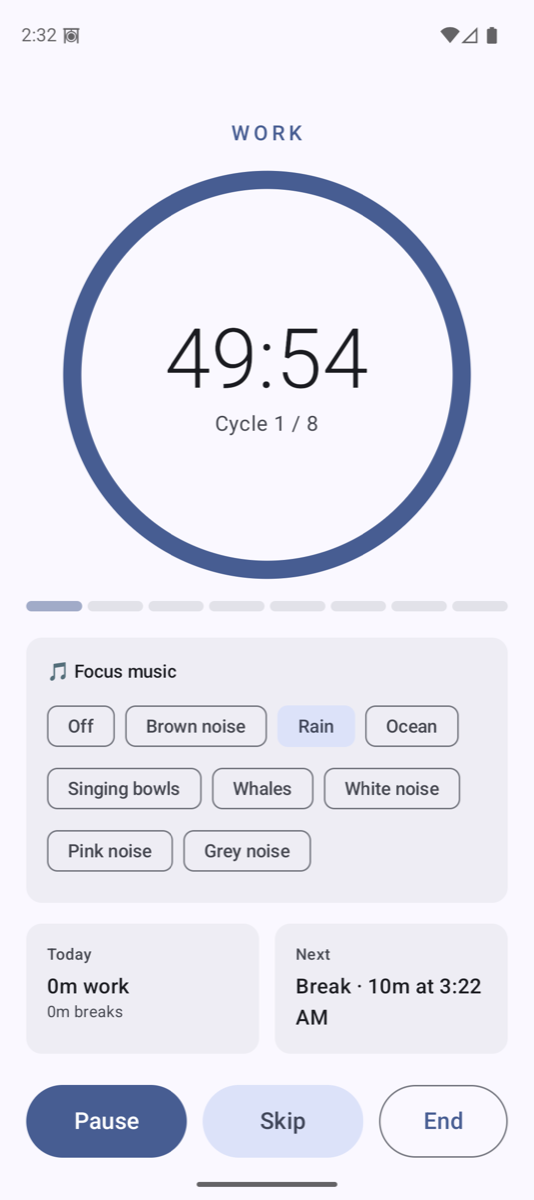
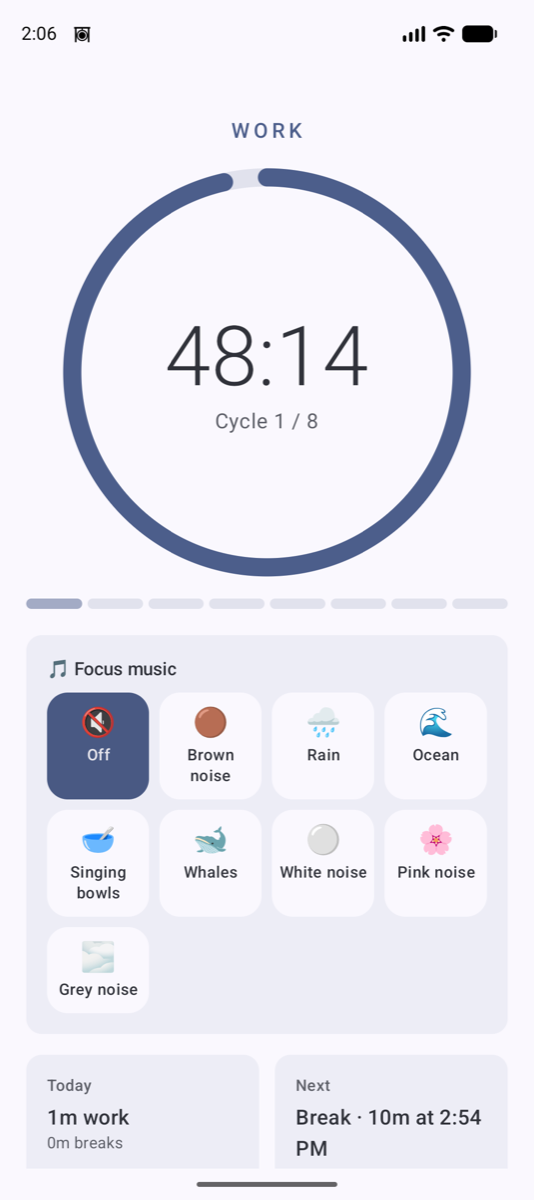
docs: README screenshots for lock-screen page, Live Update, custom input, focus tiles; measured battery note

diff --git a/README.md b/README.md
@@ -22,7 +22,9 @@ morning, put the phone away, and it runs **8 × (50 min work + 10 min break)** o
   - Breathing animation, walk
 - **Focus music** is picked on the work screen (brown noise, rain, ocean, singing bowls) and
   keeps playing with the screen off
-- **Actionable notification** with countdown, Pause and Skip — no need to open the app
+- **Actionable notification** with countdown, Pause and Skip — no need to open the app; on Android 16
+  QPR+ it's a **Live Update** (status-bar chip with the countdown, pinned on the lock screen)
+- **Lock-screen page** at every phase change: black-and-white, display only, closes itself after ~12 s
 - **Restart-proof**: phases are absolute timestamps, rebuilt after reboot
 - **History & streaks**: current/best streak, last-7-days focus chart, 12-week consistency heatmap,
   all-time totals. Time is what you actually spent (skips and pauses don't inflate it); a day
@@ -39,9 +41,13 @@ morning, put the phone away, and it runs **8 × (50 min work + 10 min break)** o
 |:-:|:-:|:-:|:-:|
 | <img src="docs/screenshots/setup.png" width="200"> | <img src="docs/screenshots/countdown.png" width="200"> | <img src="docs/screenshots/work.png" width="200"> | <img src="docs/screenshots/break-prepare.png" width="200"> |
 
-| Breathing | History (sample data) | Settings | Dark: break |
+| Lock screen at a phase change | Live Update (Android 16 QPR+) | Custom: type a value | Breathing |
 |:-:|:-:|:-:|:-:|
-| <img src="docs/screenshots/break-activity.png" width="200"> | <img src="docs/screenshots/history.png" width="200"> | <img src="docs/screenshots/settings.png" width="200"> | <img src="docs/screenshots/break-dark.png" width="200"> |
+| <img src="docs/screenshots/lock-screen.png" width="200"> | <img src="docs/screenshots/live-update.png" width="200"> | <img src="docs/screenshots/custom-edit.png" width="200"> | <img src="docs/screenshots/break-activity.png" width="200"> |
+
+| History (sample data) | Settings | Dark: break |
+|:-:|:-:|:-:|
+| <img src="docs/screenshots/history.png" width="200"> | <img src="docs/screenshots/settings.png" width="200"> | <img src="docs/screenshots/break-dark.png" width="200"> |
 
 Light and dark follow the system theme, with Material You colours from the wallpaper.
 
@@ -49,6 +55,12 @@ Light and dark follow the system theme, with Material You colours from the wallp
 
 No background ticking. Each phase end is one `AlarmManager` exact alarm; the notification shows
 a system-rendered countdown. A foreground service exists only while audio is playing.
+
+Measured on the emulator with gong and music off: **0.14 s of CPU over 129 s** of a running workday,
+including two phase changes and the lock-screen page. The countdown in the notification and the
+Live Update chip is drawn by Android, not the app. What does cost battery is optional and visible:
+the lock-screen page turns the screen on for ~12 s per phase change (about 5 min a day for a full
+8-cycle workday), and focus music plays audio like any music app.
 
 ## Resources
 
